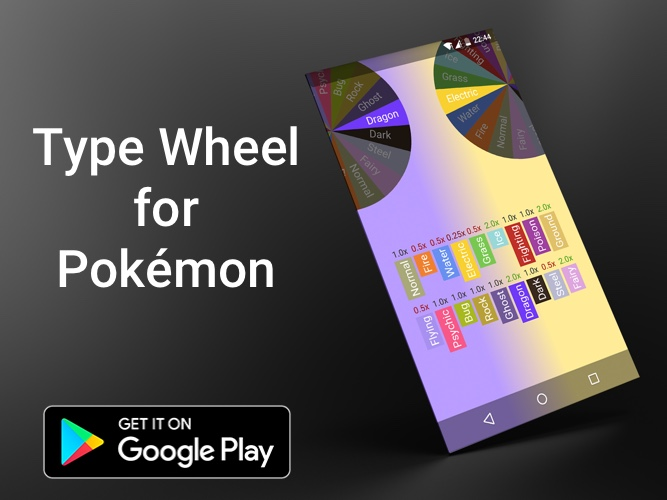
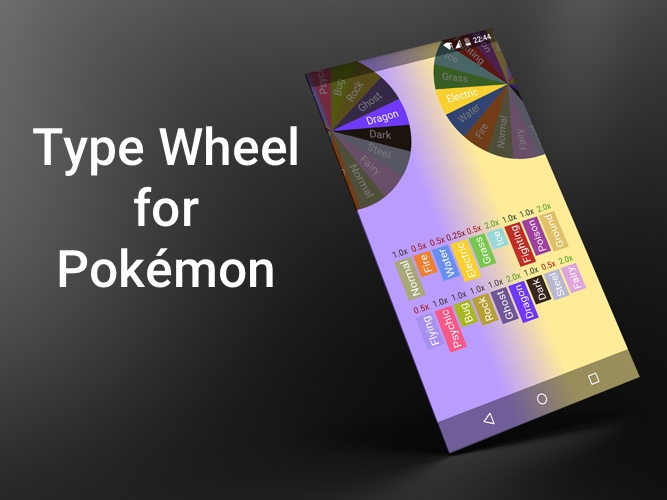
change title, remove Google Play badge

Changed region(s): [[0.06, 0.81, 0.4498, 0.96]]

diff --git a/classroom.html b/classroom.html
@@ -20,7 +20,7 @@
             <div class="logo">
                 <a href="index.html" title="Home">
                     <h1>Alexis Morin</h1>
-                    <h2>UX Designer</h2>
+                    <h2>Digital Product Designer</h2>
                 </a>
             </div>
         </div>
@@ -210,7 +210,7 @@
         <div class="col-xs-12 center">
           <p>
             <strong>My title during this project was "Project Champion👑".
-              I was invovlved from early planning stages in October 2014, and went to work on
+              I was involved from early planning stages in October 2014, and went to work on
               UX design for 3 platforms (web, tablet, mobile), visual design,
               building interactive prototypes, user research and design validation.</strong>
               In September 2015, the software was stable enough to conduct live

diff --git a/index.html b/index.html
@@ -19,7 +19,7 @@
           <div class="logo">
             <a href="index.html" title="Home">
                 <h1>Alexis Morin</h1>
-                <h2>UX Designer</h2>
+                <h2>Digital Product Designer</h2>
             </a>
           </div>
         </div>
@@ -89,7 +89,7 @@
       <div class="homegreeting">
         <p class="greeting">Hello, I'm Alexis!</p>
         <!-- <span class="hello chinese"><p class="greeting">👋, I'm Alexis!</p> -->
-        <p class="role">UX Designer</p>
+        <p class="role">Digital Product Designer</p>
       </div>
 
     </section>

diff --git a/about.html b/about.html
@@ -20,7 +20,7 @@
             <div class="logo">
                 <a href="index.html" title="Home">
                     <h1>Alexis Morin</h1>
-                    <h2>UX Designer</h2>
+                    <h2>Digital Product Designer</h2>
                 </a>
             </div>
         </div>

diff --git a/ampup.html b/ampup.html
@@ -20,7 +20,7 @@
             <div class="logo">
                 <a href="index.html" title="Home">
                     <h1>Alexis Morin</h1>
-                    <h2>UX Designer</h2>
+                    <h2>Digital Product Designer</h2>
                 </a>
             </div>
         </div>

diff --git a/englishlive.html b/englishlive.html
@@ -20,7 +20,7 @@
             <div class="logo">
                 <a href="index.html" title="Home">
                     <h1>Alexis Morin</h1>
-                    <h2>UX Designer</h2>
+                    <h2>Digital Product Designer</h2>
                 </a>
             </div>
         </div>
